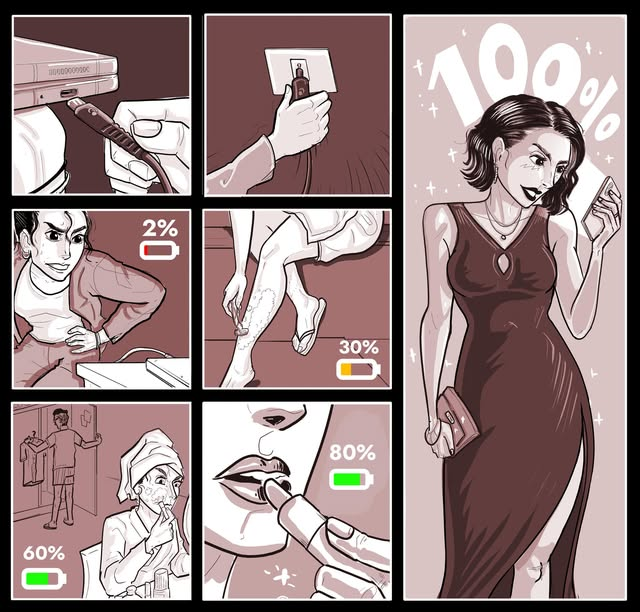
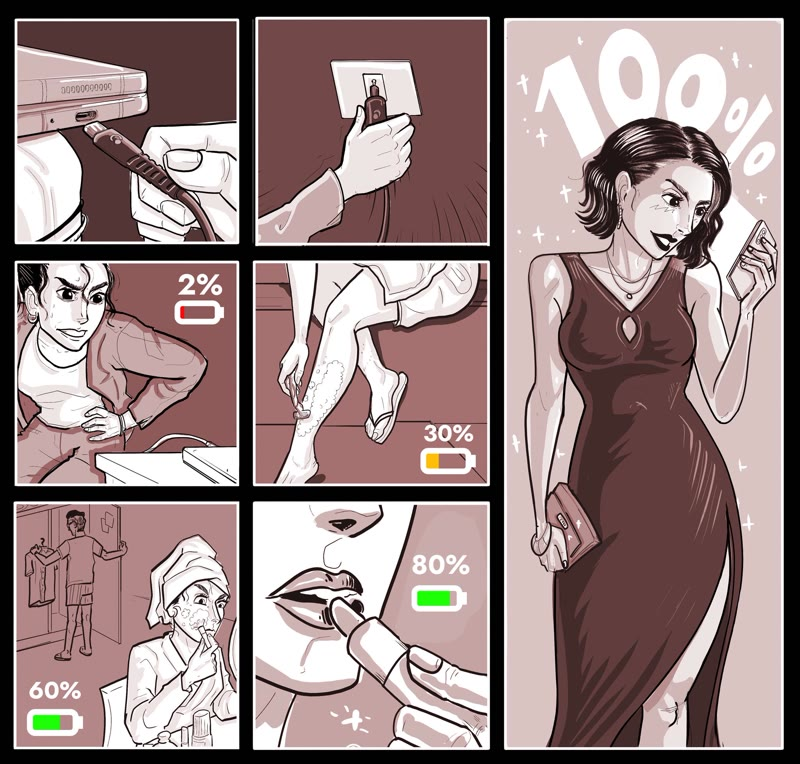
v86: feed de Player con las publicaciones completas en baldosas uniformes

diff --git a/preview/casos/player.html b/preview/casos/player.html
@@ -15,8 +15,8 @@
   <link rel="preconnect" href="https://fonts.googleapis.com">
   <link rel="preconnect" href="https://fonts.gstatic.com" crossorigin>
   <link href="https://fonts.googleapis.com/css2?family=DM+Mono:wght@400;500&family=Space+Grotesk:wght@400;500;600;700&display=swap" rel="stylesheet">
-  <link rel="stylesheet" href="case.css?v=20261104-85">
-  <script src="case.js?v=20261104-85" defer></script>
+  <link rel="stylesheet" href="case.css?v=20261104-86">
+  <script src="case.js?v=20261104-86" defer></script>
 </head>
 <body>
   <a class="skip-link" href="#caso">Saltar al caso</a>
@@ -102,11 +102,11 @@
         <div><p class="cs-text">Gráficas de producto en la identidad naranja y dos páginas de cómic en tinta, de 2023.</p><p class="cs-text"><a class="cs-ext" href="https://www.instagram.com/player.py/" target="_blank" rel="noopener">Ver @player.py ↗</a></p></div>
       </div>
       <div class="cs-feedmini">
-        <img src="../assets/casos/player/feed/ig-1.jpg" alt="Gráfica del cargador dual de 20W de Player" loading="lazy" width="639" height="640">
-        <img src="../assets/casos/player/feed/ig-2.jpg" alt="Gráfica del cargador dual de 20W de Player, segunda versión" loading="lazy" width="640" height="640">
-        <img src="../assets/casos/player/feed/ig-3.jpg" alt="Gráfica del cargador de auto de Player" loading="lazy" width="640" height="640">
-        <img src="../assets/casos/player/feed/ig-4.jpg" alt="Página de cómic en tinta: una mujer se prepara mientras el celular carga" loading="lazy" width="640" height="612">
-        <img src="../assets/casos/player/feed/ig-5.jpg" alt="Página de cómic en tinta: persecución en auto con el celular" loading="lazy" width="640" height="612">
+        <img src="../assets/casos/player/feed/ig-1.jpg" alt="Gráfica del cargador dual de 20W de Player" loading="lazy" width="800" height="800">
+        <img src="../assets/casos/player/feed/ig-2.jpg" alt="Gráfica del cargador dual de 20W de Player, segunda versión" loading="lazy" width="800" height="800">
+        <img src="../assets/casos/player/feed/ig-3.jpg" alt="Gráfica del cargador de auto de Player" loading="lazy" width="800" height="800">
+        <img src="../assets/casos/player/feed/ig-4.jpg" alt="Página de cómic en tinta: una mujer se prepara mientras el celular carga" loading="lazy" width="800" height="765">
+        <img src="../assets/casos/player/feed/ig-5.jpg" alt="Página de cómic en tinta: persecución en auto con el celular" loading="lazy" width="800" height="765">
       </div>
     </section>
 

diff --git a/preview/index.html b/preview/index.html
@@ -55,9 +55,9 @@
   <link rel="preconnect" href="https://fonts.googleapis.com">
   <link rel="preconnect" href="https://fonts.gstatic.com" crossorigin>
   <link href="https://fonts.googleapis.com/css2?family=DM+Mono:wght@400;500&family=Space+Grotesk:wght@400;500;600;700&display=swap" rel="stylesheet">
-  <link rel="stylesheet" href="styles.css?v=20261104-85">
-  <script src="script.js?v=20261104-85" defer></script>
-  <script src="personaje.js?v=20261104-85" defer></script>
+  <link rel="stylesheet" href="styles.css?v=20261104-86">
+  <script src="script.js?v=20261104-86" defer></script>
+  <script src="personaje.js?v=20261104-86" defer></script>
 </head>
 <body>
   <canvas class="fluid-cursor" id="fluid-cursor" aria-hidden="true"></canvas>

diff --git a/preview/casos/case.css b/preview/casos/case.css
@@ -117,7 +117,7 @@ a{color:inherit}
 
 /* v84 — el feed de Player y el montaje de la web de Todegol son material de apoyo: chicos y con enlace */
 .cs-feedmini{display:grid;grid-template-columns:repeat(5,minmax(0,1fr));gap:10px;max-width:680px;margin-top:clamp(24px,3vw,40px)}
-.cs-feedmini img{width:100%;aspect-ratio:1;object-fit:cover;border-radius:12px;background:var(--paper-2);display:block}
+.cs-feedmini img{width:100%;aspect-ratio:1;object-fit:contain;border-radius:12px;background:var(--paper-2);display:block}
 @media(max-width:560px){.cs-feedmini{grid-template-columns:repeat(3,minmax(0,1fr))}}
 .cs-mont{margin:clamp(24px,3vw,40px) 0 0;max-width:600px}
 .cs-mont img{width:100%;height:auto;border-radius:var(--r);display:block}

diff --git a/preview/casos/atlas.html b/preview/casos/atlas.html
@@ -15,8 +15,8 @@
   <link rel="preconnect" href="https://fonts.googleapis.com">
   <link rel="preconnect" href="https://fonts.gstatic.com" crossorigin>
   <link href="https://fonts.googleapis.com/css2?family=DM+Mono:wght@400;500&family=Space+Grotesk:wght@400;500;600;700&display=swap" rel="stylesheet">
-  <link rel="stylesheet" href="case.css?v=20261104-85">
-  <script src="case.js?v=20261104-85" defer></script>
+  <link rel="stylesheet" href="case.css?v=20261104-86">
+  <script src="case.js?v=20261104-86" defer></script>
 </head>
 <body>
   <a class="skip-link" href="#caso">Saltar al caso</a>

diff --git a/preview/casos/branding.html b/preview/casos/branding.html
@@ -15,8 +15,8 @@
   <link rel="preconnect" href="https://fonts.googleapis.com">
   <link rel="preconnect" href="https://fonts.gstatic.com" crossorigin>
   <link href="https://fonts.googleapis.com/css2?family=DM+Mono:wght@400;500&family=Space+Grotesk:wght@400;500;600;700&display=swap" rel="stylesheet">
-  <link rel="stylesheet" href="case.css?v=20261104-85">
-  <script src="case.js?v=20261104-85" defer></script>
+  <link rel="stylesheet" href="case.css?v=20261104-86">
+  <script src="case.js?v=20261104-86" defer></script>
 </head>
 <body>
   <a class="skip-link" href="#caso">Saltar al caso</a>

diff --git a/preview/casos/etidol.html b/preview/casos/etidol.html
@@ -15,8 +15,8 @@
   <link rel="preconnect" href="https://fonts.googleapis.com">
   <link rel="preconnect" href="https://fonts.gstatic.com" crossorigin>
   <link href="https://fonts.googleapis.com/css2?family=DM+Mono:wght@400;500&family=Space+Grotesk:wght@400;500;600;700&display=swap" rel="stylesheet">
-  <link rel="stylesheet" href="case.css?v=20261104-85">
-  <script src="case.js?v=20261104-85" defer></script>
+  <link rel="stylesheet" href="case.css?v=20261104-86">
+  <script src="case.js?v=20261104-86" defer></script>
 </head>
 <body>
   <a class="skip-link" href="#caso">Saltar al caso</a>

diff --git a/preview/casos/ilustracion.html b/preview/casos/ilustracion.html
@@ -15,8 +15,8 @@
   <link rel="preconnect" href="https://fonts.googleapis.com">
   <link rel="preconnect" href="https://fonts.gstatic.com" crossorigin>
   <link href="https://fonts.googleapis.com/css2?family=DM+Mono:wght@400;500&family=Space+Grotesk:wght@400;500;600;700&display=swap" rel="stylesheet">
-  <link rel="stylesheet" href="case.css?v=20261104-85">
-  <script src="case.js?v=20261104-85" defer></script>
+  <link rel="stylesheet" href="case.css?v=20261104-86">
+  <script src="case.js?v=20261104-86" defer></script>
 </head>
 <body>
   <a class="skip-link" href="#caso">Saltar al caso</a>

diff --git a/preview/casos/jasypa.html b/preview/casos/jasypa.html
@@ -15,8 +15,8 @@
   <link rel="preconnect" href="https://fonts.googleapis.com">
   <link rel="preconnect" href="https://fonts.gstatic.com" crossorigin>
   <link href="https://fonts.googleapis.com/css2?family=DM+Mono:wght@400;500&family=Space+Grotesk:wght@400;500;600;700&display=swap" rel="stylesheet">
-  <link rel="stylesheet" href="case.css?v=20261104-85">
-  <script src="case.js?v=20261104-85" defer></script>
+  <link rel="stylesheet" href="case.css?v=20261104-86">
+  <script src="case.js?v=20261104-86" defer></script>
 </head>
 <body>
   <a class="skip-link" href="#caso">Saltar al caso</a>

diff --git a/preview/casos/mariano.html b/preview/casos/mariano.html
@@ -15,8 +15,8 @@
   <link rel="preconnect" href="https://fonts.googleapis.com">
   <link rel="preconnect" href="https://fonts.gstatic.com" crossorigin>
   <link href="https://fonts.googleapis.com/css2?family=DM+Mono:wght@400;500&family=Space+Grotesk:wght@400;500;600;700&display=swap" rel="stylesheet">
-  <link rel="stylesheet" href="case.css?v=20261104-85">
-  <script src="case.js?v=20261104-85" defer></script>
+  <link rel="stylesheet" href="case.css?v=20261104-86">
+  <script src="case.js?v=20261104-86" defer></script>
 </head>
 <body>
   <a class="skip-link" href="#caso">Saltar al caso</a>

diff --git a/preview/casos/todegol.html b/preview/casos/todegol.html
@@ -15,8 +15,8 @@
   <link rel="preconnect" href="https://fonts.googleapis.com">
   <link rel="preconnect" href="https://fonts.gstatic.com" crossorigin>
   <link href="https://fonts.googleapis.com/css2?family=DM+Mono:wght@400;500&family=Space+Grotesk:wght@400;500;600;700&display=swap" rel="stylesheet">
-  <link rel="stylesheet" href="case.css?v=20261104-85">
-  <script src="case.js?v=20261104-85" defer></script>
+  <link rel="stylesheet" href="case.css?v=20261104-86">
+  <script src="case.js?v=20261104-86" defer></script>
 </head>
 <body>
   <a class="skip-link" href="#caso">Saltar al caso</a>
